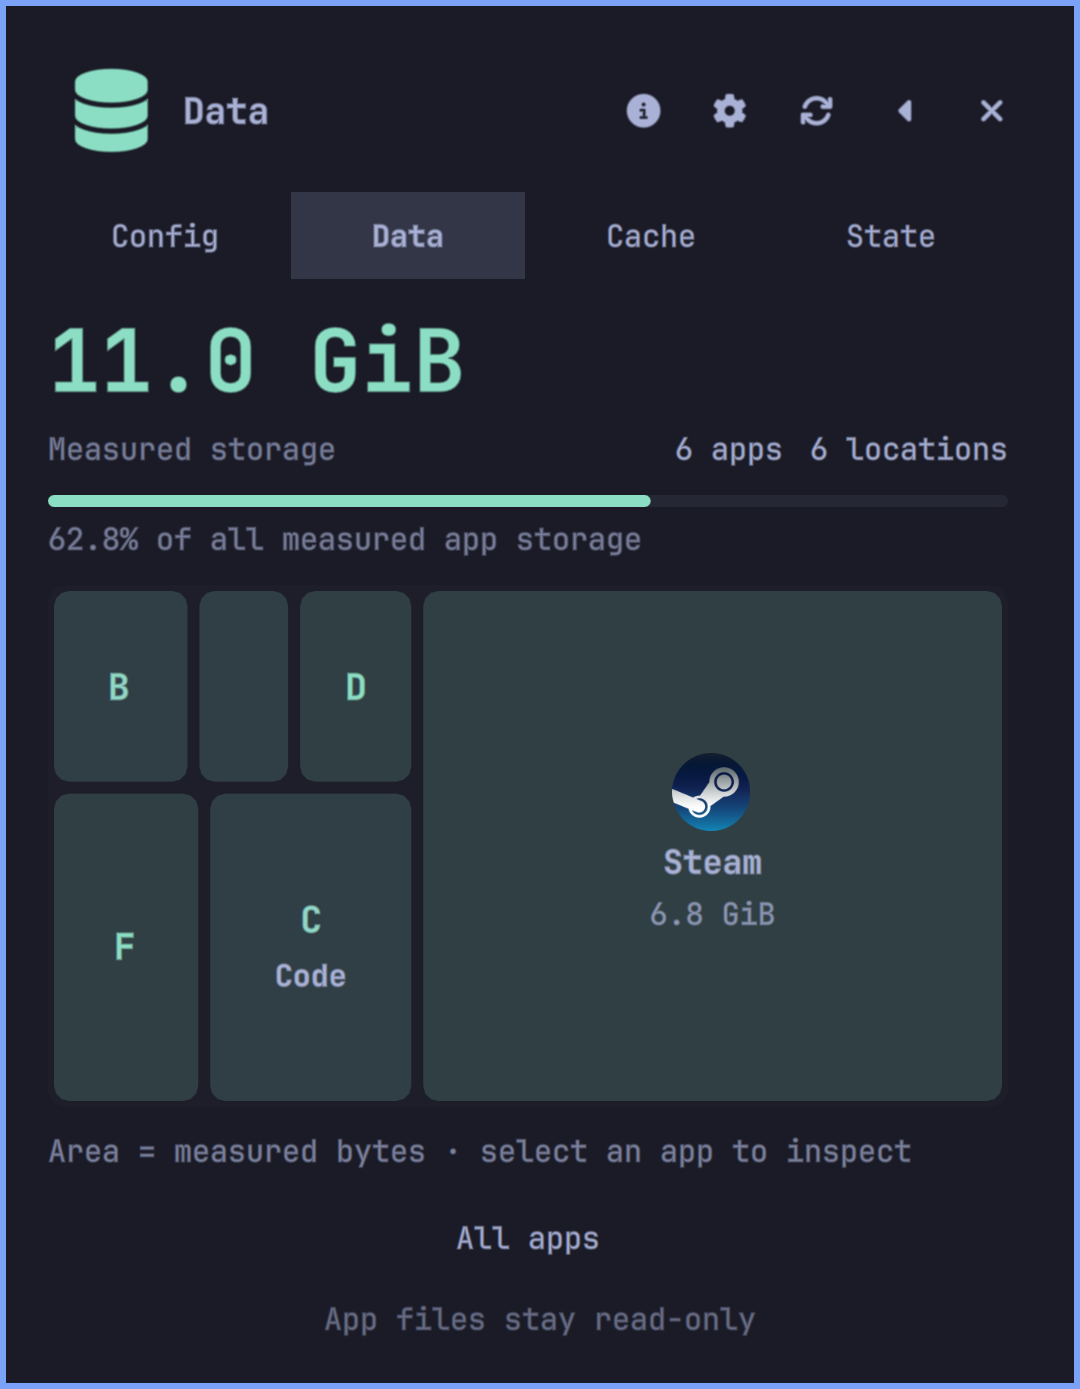
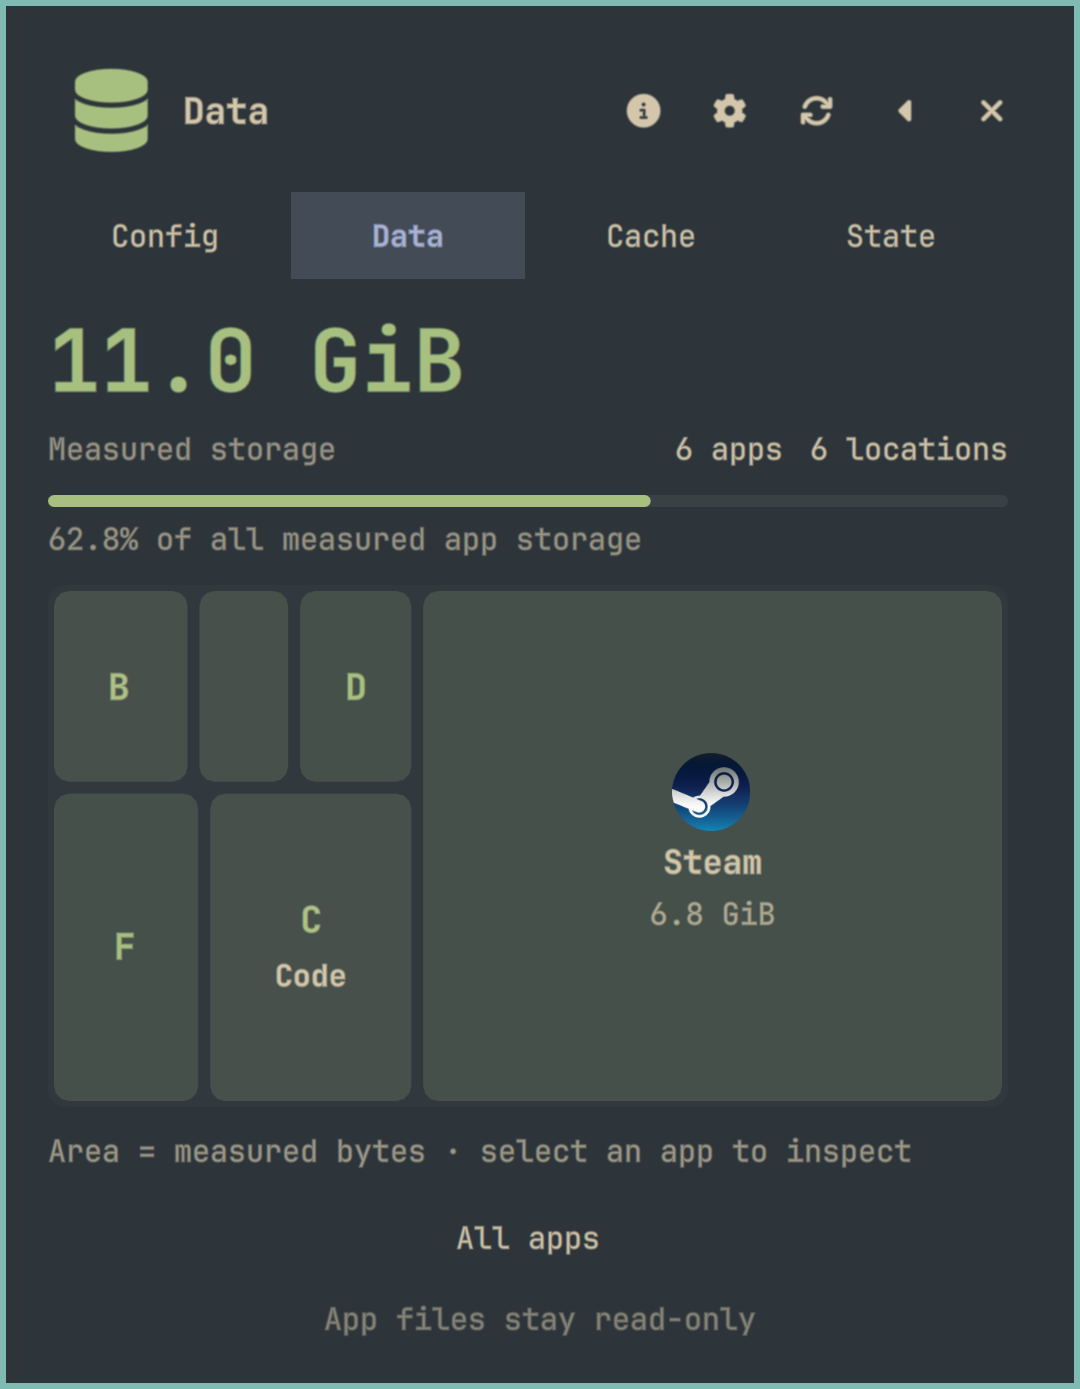
Release Mosaic v0.1.1 with multi-theme Y-axis previews

diff --git a/assets/preview.html b/assets/preview.html
@@ -26,13 +26,13 @@
     .feature-icon svg { width: 37px; height: 37px; fill: none; stroke: currentColor; stroke-width: 1.7; stroke-linecap: round; stroke-linejoin: round; }
     .feature strong { display: block; font-size: 31px; font-weight: 600; letter-spacing: -.5px; }
     .feature p { margin: 12px 0 0; font-size: 23px; color: #b8cdd4; letter-spacing: .2px; }
-    .native { position: absolute; margin: 0; perspective: 2600px; }
-    .native img { display: block; width: 100%; height: auto; transform: rotateX(var(--rx)) rotateY(var(--ry)) rotateZ(var(--rz)); border-radius: 15px; box-shadow: 0 5px 0 #0a142be6, 0 12px 15px #050e1d4d, 0 48px 75px -5px #040b1e80, 0 95px 120px -30px #030b1eb3; }
-    .overview { left: 1110px; top: 380px; width: 800px; --rx: 8deg; --ry: -17deg; --rz: -8deg; z-index: 4; }
-    .dashboard { left: 2025px; top: 180px; width: 600px; --rx: 9deg; --ry: -19deg; --rz: 8deg; z-index: 2; }
-    .settings { left: 2790px; top: 155px; width: 510px; --rx: 8deg; --ry: -23deg; --rz: 12deg; z-index: 1; }
-    .category { left: 1970px; top: 1170px; width: 620px; --rx: 7deg; --ry: -13deg; --rz: -7deg; z-index: 5; }
-    .year { left: 2740px; top: 1020px; width: 620px; --rx: 9deg; --ry: -19deg; --rz: 9deg; z-index: 3; }
+    .native { position: absolute; margin: 0; perspective: 1800px; }
+    .native img { display: block; width: 100%; height: auto; transform: rotateY(var(--yaw)); border-radius: 15px; box-shadow: 0 5px 0 #0a142be6, 0 12px 15px #050e1d4d, 0 48px 75px -5px #040b1e80, 0 95px 120px -30px #030b1eb3; }
+    .overview { left: 1110px; top: 380px; width: 800px; --yaw: 0deg; z-index: 4; }
+    .dashboard { left: 2025px; top: 180px; width: 600px; --yaw: -30deg; z-index: 2; }
+    .settings { left: 2790px; top: 155px; width: 510px; --yaw: 24deg; z-index: 1; }
+    .category { left: 1970px; top: 1170px; width: 620px; --yaw: 30deg; z-index: 5; }
+    .year { left: 2740px; top: 1020px; width: 620px; --yaw: 0deg; z-index: 3; }
     .caption { position: absolute; left: 195px; bottom: 365px; font-size: 28px; font-weight: 450; letter-spacing: -.3px; color: #d8e8e7; }
     .caption b { color: #aee0d1; font-weight: 600; }
     footer { position: absolute; left: 190px; right: 180px; bottom: 90px; display: flex; align-items: center; justify-content: space-between; color: #b4cfd3; font-size: 23px; letter-spacing: .7px; }
@@ -42,7 +42,7 @@
 <body>
   <main>
     <div class="landscape"></div><div class="shade"></div><div class="atmosphere"></div>
-    <div class="edition">OMARCHY SHELL / v0.1.0</div>
+    <div class="edition">OMARCHY SHELL / v0.1.1</div>
     <div class="brand"><img src="mosaic.svg" alt="Mosaic Reveal logo"><div class="brand-name">Mosaic</div></div>
     <h1>Storage,<br><span>in perspective.</span></h1>
     <p class="intro">Know where your apps keep data.<br>A compact explorer for Omarchy.</p>
@@ -57,7 +57,7 @@
     <figure class="native category"><img src="previews/category-cache.png" alt="Interactive cache category shown with sample data"></figure>
     <figure class="native year"><img src="previews/year.png" alt="Mosaic year in storage using illustrative monthly snapshots"></figure>
     <div class="caption">A small panel.<br><b>A clearer picture.</b></div>
-    <footer><span class="footer-brand">github.com/naolselemon/mosaic</span><span>Actual native UI · Illustrative sample data</span></footer>
+    <footer><span class="footer-brand">github.com/naolselemon/mosaic</span><span>Actual native UI · Light &amp; dark palettes · Illustrative sample data</span></footer>
   </main>
 </body>
 </html>

diff --git a/assets/preview-pages.html b/assets/preview-pages.html
@@ -90,21 +90,19 @@
       padding: 26px 34px 10px;
     }
     figure {
-      --rx: 5deg;
-      --ry: -9deg;
-      --rz: -2deg;
+      --yaw: 24deg;
       --lift: 0px;
       flex: 0 0 480px;
       width: 480px;
       margin: 0;
-      perspective: 1800px;
+      perspective: 1200px;
     }
-    figure:nth-child(2n) { --rx: 3deg; --ry: 9deg; --rz: 2deg; --lift: 10px; }
-    figure:nth-child(3n) { --rx: 6deg; --ry: -5deg; --rz: -1deg; --lift: -5px; }
-    figure:nth-child(4n) { --rx: 4deg; --ry: 11deg; --rz: 2.5deg; --lift: 4px; }
+    figure:nth-child(2n) { --yaw: -24deg; --lift: 10px; }
+    figure:nth-child(3n) { --yaw: 0deg; --lift: -5px; }
+    figure:nth-child(4n) { --yaw: 30deg; --lift: 4px; }
     .native-card {
       position: relative;
-      transform: translateY(var(--lift)) rotateX(var(--rx)) rotateY(var(--ry)) rotateZ(var(--rz));
+      transform: translateY(var(--lift)) rotateY(var(--yaw));
       transform-origin: center center;
       border: 1px solid rgb(209 236 244 / 36%);
       border-radius: 22px;
@@ -120,7 +118,7 @@
     }
     figcaption {
       position: relative;
-      margin-top: 35px;
+      margin-top: 52px;
       padding: 0 8px;
       color: #ecf5f3;
       font-size: 21px;
@@ -131,15 +129,15 @@
     }
     .overview .cards { column-gap: 158px; }
     .overview figure { flex-basis: 520px; width: 520px; }
-    .overview figure:nth-child(1) { --ry: 12deg; --rz: -3deg; }
-    .overview figure:nth-child(2) { --rx: 3deg; --ry: 0deg; --rz: 0deg; --lift: -8px; }
-    .overview figure:nth-child(3) { --ry: -12deg; --rz: 3deg; }
+    .overview figure:nth-child(1) { --yaw: 0deg; }
+    .overview figure:nth-child(2) { --yaw: 24deg; --lift: -8px; }
+    .overview figure:nth-child(3) { --yaw: -24deg; }
     .categories .cards, .settings .cards { column-gap: 110px; }
     .settings .cards { max-width: 2500px; margin: 0 auto; row-gap: 82px; }
     .insights .cards { column-gap: 38px; }
     .insights figure { flex-basis: 446px; width: 446px; }
-    .insights figure:nth-child(5) { --ry: -10deg; --rz: -2.5deg; }
-    .insights figure:nth-child(6) { --ry: 8deg; --rz: 1deg; }
+    .insights figure:nth-child(5) { --yaw: -30deg; }
+    .insights figure:nth-child(6) { --yaw: 0deg; }
     footer {
       display: flex;
       align-items: center;
@@ -163,7 +161,7 @@
       </div>
       <div class="headline">
         <h1>Every view. One clear picture.</h1>
-        <p class="subtitle">26 native views · Sample data throughout</p>
+        <p class="subtitle">26 native views · Light &amp; dark palettes · Sample data throughout</p>
       </div>
     </header>
 

diff --git a/CONTRIBUTING.md b/CONTRIBUTING.md
@@ -83,6 +83,8 @@ For screenshots or recordings, use synthetic/demo data and crop to the plugin. E
 
 The root [`preview.png`](preview.png) is the cinematic hero; [`preview-pages.png`](preview-pages.png) covers every page, category tab and Settings section. Editable compositions live in [`assets/preview.html`](assets/preview.html) and [`assets/preview-pages.html`](assets/preview-pages.html). Both use actual native captures with synthetic data from `assets/previews/`, plus the original [`landscape artwork`](assets/showcase-wallpaper.svg). No external requests or scripts.
 
+The compositions mix straight-on cards with inward/outward Y-axis rotations only. Native captures use Tokyo Night, Catppuccin Latte, Everforest and Rosé Pine's light palette, with Mosaic's accent preferences. Apply palettes only in a temporary capture session; preserve the user's saved theme, settings and history rather than recolouring screenshot pixels.
+
 From the repository root, render with librsvg and Chromium in a private browser profile:
 
 ```sh
@@ -94,7 +96,7 @@ chromium --headless --disable-gpu --hide-scrollbars --no-first-run \
   --window-size=3600,2200 --screenshot=preview.png "file://$PWD/assets/preview.html"
 chromium --headless --disable-gpu --hide-scrollbars --no-first-run \
   --force-device-scale-factor=1 --user-data-dir="$profile" \
-  --window-size=3200,5460 --screenshot=preview-pages.png "file://$PWD/assets/preview-pages.html"
+  --window-size=3200,5562 --screenshot=preview-pages.png "file://$PWD/assets/preview-pages.html"
 ```
 
 The gallery height follows its content; remeasure it if captures or layout change. Inspect both PNGs at full size and at README width. Keep the sample-data labels visible and capture new UI rather than drawing controls or results that the plugin does not provide. The original landscape follows the project's MIT license; application names and icons in captures belong to their respective owners.

diff --git a/docs/guide.md b/docs/guide.md
@@ -151,8 +151,8 @@ python3 -B backend/updates.py check
 Use a separate checkout of the published source, stop active Mosaic scans and close the popup, then mirror it into the installed plugin. Do not run the mirror from inside its destination:
 
 ```sh
-git clone --branch v0.1.0 https://github.com/naolselemon/mosaic.git mosaic-v0.1.0
-cd mosaic-v0.1.0
+git clone --branch v0.1.1 https://github.com/naolselemon/mosaic.git mosaic-v0.1.1
+cd mosaic-v0.1.1
 plugin="$HOME/.config/omarchy/plugins/naolselemon.mosaic"
 mkdir -p "$plugin"
 rsync -a --delete --exclude='.git/' --exclude='__pycache__/' ./ "$plugin/"

diff --git a/SECURITY.md b/SECURITY.md
@@ -2,7 +2,7 @@
 
 ## Supported versions
 
-Security fixes target the latest stable release, currently **v0.1.0**. Older releases and development snapshots are not maintained as separate security branches. The earlier `2.x` versions were internal development iterations, not published releases.
+Security fixes target the latest stable release, currently **v0.1.1**. Older releases and development snapshots are not maintained as separate security branches. The earlier `2.x` versions were internal development iterations, not published releases.
 
 ## Report a vulnerability privately
 
